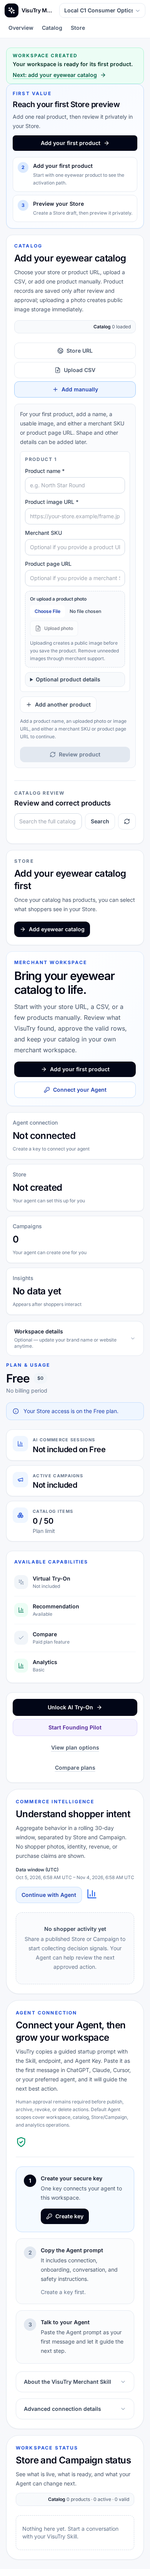
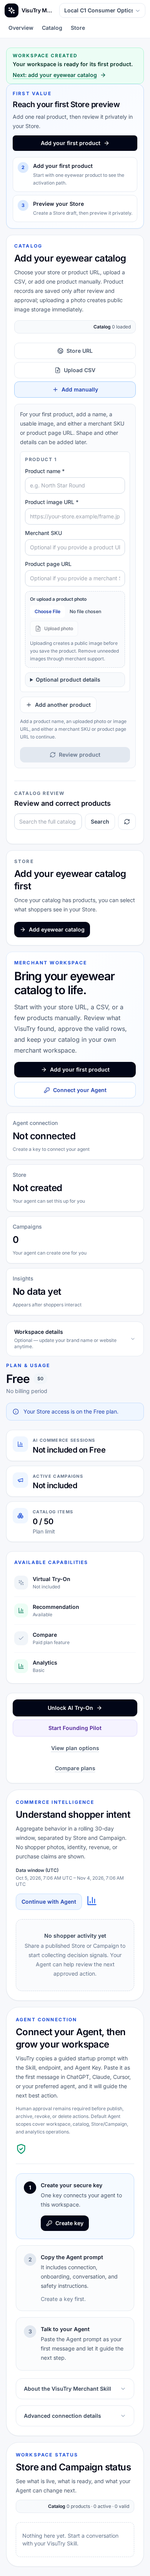
docs(merchant): record C1 UX acceptance evidence

diff --git a/docs/product/merchant-c1-ux-acceptance-2026-11-04.md b/docs/product/merchant-c1-ux-acceptance-2026-11-04.md
@@ -1,0 +1,65 @@
+# C1 Merchant First Value independent UX acceptance
+
+**Disposition: HOLD**
+
+**App/tested commit:** `39262a9ab8d0b36273e62cd340420ba1dd59927a`
+
+**Target:** Draft [PR #516](https://github.com/franksunye/VisuTry/pull/516), C1 only
+
+**Date:** 2026-11-04
+
+## Scope and method
+
+I reviewed the latest handoff in [Issue #359](https://github.com/franksunye/VisuTry/issues/359) and the C-stage design in PR #516, then exercised the actual Chromium UI on isolated Local PostgreSQL databases with `APP_ENV=local`, `ENABLE_MOCKS=true`, and seeded QA identities. N and R used a clean merchant identity; E used the existing Consumer identity with no merchant membership. These fixtures test the post-auth workspace journey; they do **not** prove a real Auth0 registration.
+
+The browser used 1440×900 desktop and 390×844 mobile viewports. No production data or merchant URLs were accessed. A sample website was saved during N, but the catalog was deliberately added manually; no URL inspection ran. C3 URL import was not implemented or accepted here.
+
+## Journey results
+
+| Journey | Result and observed actions | Persistence and First Value proof |
+| --- | --- | --- |
+| N — clean new merchant workspace | **PASS in Local Mock.** 8 clicks: Merchant Sign In → Clean Merchant → Create workspace → Add manually → Review → Approve and import → Create Store → Preview. | One required workspace field; website optional. Catalog inspection and preview POSTs returned 200. Private draft was visible and marked `DRAFT · not public`. One `merchant_store_previewed` A6 event persisted. |
+| E — existing Consumer, no merchant | **PASS in Local Mock, mobile.** Same 8-step path after Start Free → Consumer. | Consumer identity received its first merchant membership; inspection and preview POSTs returned 200. Private draft remained unpublished. One A6 event persisted. |
+| R — returning incomplete workspace | **PASS in Local Mock.** 10 clicks including the second sign-in; logout/re-auth restored the same merchant ID and name, then continued through the manual path. | No duplicate workspace. The returned user could add the first product and finish preview; inspection and preview POSTs returned 200; one A6 event persisted. |
+
+Database readback confirmed one `merchant_store_previewed` event per N/E/R merchant, plus one for the clean First Value RC run. Browser journeys reported zero console errors, page errors, or HTTP responses ≥400. The harness recorded `ERR_ABORTED` only for old document requests interrupted by normal navigation. The full First Value RC test also passed with no browser or server errors.
+
+On mobile, every captured surface fit the 390px viewport without horizontal overflow. The full page measured 6,659px at the empty-catalog state and 8,725px at private preview, about 10.3 viewport heights. The product form visually marks name and image as required and explains that either SKU or product URL supplies product identity. The browser reports two native required inputs for that form.
+
+## Changes made
+
+- Replaced the Merchant sign-in promise about copying an Agent Key and Skill with the actual GUI path to a private Store preview; agent connection is described as optional and later.
+- Replaced the inaccurate “Merchant setup · 1 of 1” label with “Step 1 of 3 · Workspace,” and aligned the catalog/preview checklist numbers to steps 2 and 3.
+- Updated the workspace heading and supporting text to state the next product and private-preview actions.
+- Updated regression assertions and captured before/after Chromium screenshots.
+
+## Before/after screenshots
+
+| Surface | Before | After |
+| --- | --- | --- |
+| N sign-in, desktop | [1440px](./merchant-c1-evidence/N-signin-before-1440.png) | [1440px](./merchant-c1-evidence/N-signin-after-1440.png) |
+| N workspace, desktop | [1440px](./merchant-c1-evidence/N-workspace-before-1440.png) | [1440px](./merchant-c1-evidence/N-workspace-after-1440.png) |
+| E sign-in, mobile | [390px](./merchant-c1-evidence/E-signin-before-390.png) | [390px](./merchant-c1-evidence/E-signin-after-390.png) |
+| E workspace, mobile | [390px](./merchant-c1-evidence/E-workspace-before-390.png) | [390px](./merchant-c1-evidence/E-workspace-after-390.png) |
+| E catalog, mobile | [390px](./merchant-c1-evidence/E-catalog-before-390.png) | [390px](./merchant-c1-evidence/E-catalog-after-390.png) |
+| E first-product form, mobile | [390px](./merchant-c1-evidence/E-product-form-before-390.png) | [390px](./merchant-c1-evidence/E-product-form-after-390.png) |
+| E private preview, mobile | [390px](./merchant-c1-evidence/E-preview-before-390.png) | [390px](./merchant-c1-evidence/E-preview-after-390.png) |
+| R returning incomplete state, desktop | [1440px](./merchant-c1-evidence/R-incomplete-before-1440.png) | [1440px](./merchant-c1-evidence/R-incomplete-after-1440.png) |
+| R private preview, desktop | — | [1440px](./merchant-c1-evidence/R-preview-after-1440.png) |
+
+## HOLD items
+
+The direct path works, but the mobile workspace still stacks the First Value task beside substantial lower-priority content: plan and capacity, Insights, Agent setup, and workspace status. At 8,725px total height, a first-time owner must scan a long control-center page even though the needed task is near the top. Before C1 UX can pass, add a progressive first-value view that keeps the Agent channel available while collapsing unrelated workspace panels until A6.
+
+The N route used a seeded clean Local Mock identity, not a newly registered Auth0 identity. A real Auth0 signup and callback remain outside this local acceptance and must be verified before claiming registration UX is accepted.
+
+## Validation
+
+- `npm run typecheck` — pass.
+- `npm run lint` — pass with existing repository warnings; no lint errors.
+- Merchant workspace and activation-checklist Jest tests — 10/10 pass.
+- Chromium `p0-m1-merchant-auth-boundary.spec.ts` — 4/4 pass.
+- Chromium `p0-l1-local-merchant-growth-lab.spec.ts` First Value RC — 1/1 pass; desktop/mobile route checks passed.
+- N/E/R Chromium journeys on the app commit above — pass; private preview stayed non-public and A6 was deduplicated once per merchant.
+
+**Decision:** Keep PR #516 in Draft and C1 at **HOLD** until the mobile first-value view is simplified and Auth0 registration is independently observed. No merge or production deployment was performed. C3 remains out of scope.
